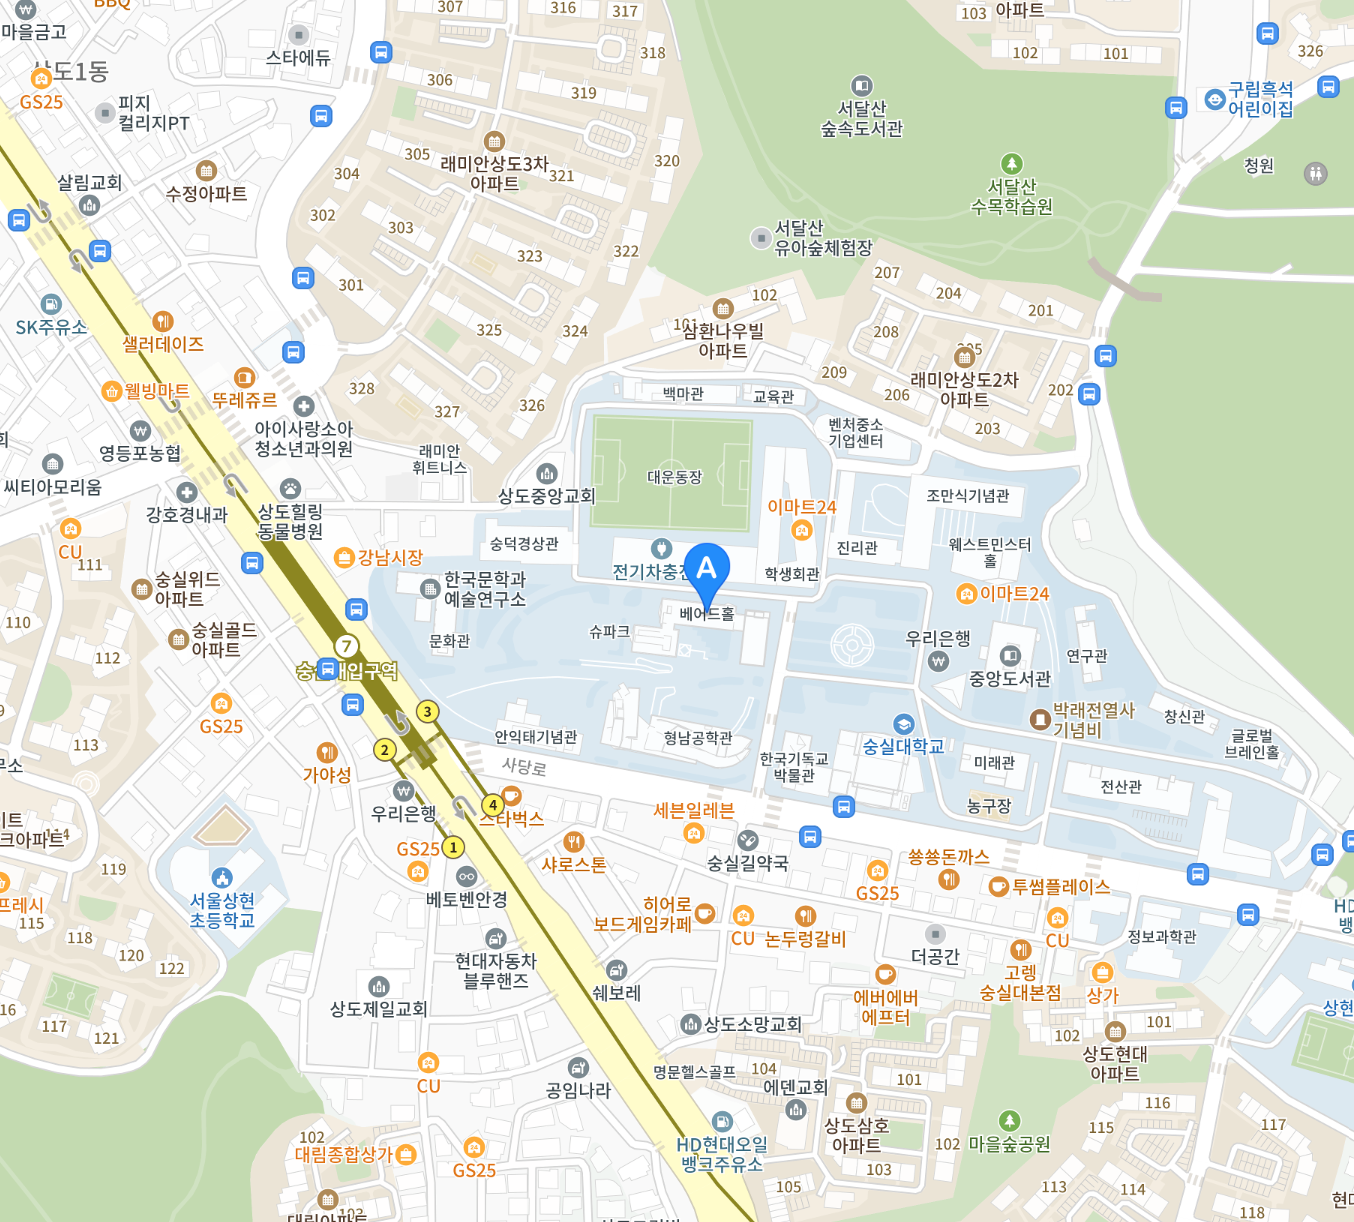
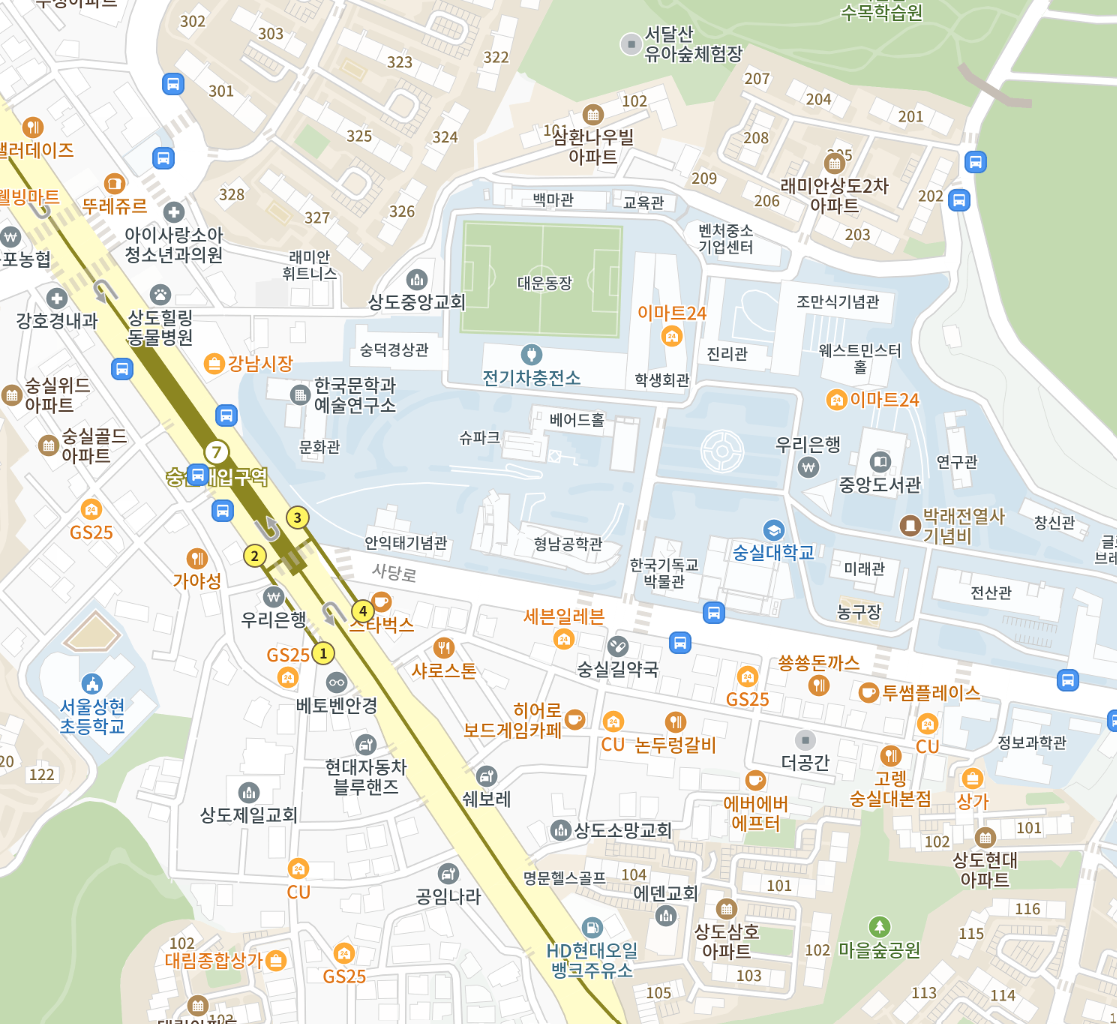
fix: map

diff --git a/src/pages/Onboarding/AddressMap.jsx b/src/pages/Onboarding/AddressMap.jsx
@@ -16,7 +16,8 @@ export default function AddressMap() {
                     aria-label="뒤로가기"
                 >
                     <svg width="30" height="30" viewBox="0 0 24 24" fill="none">
-                        <path d="M15 6L9 12l6 6" stroke="white" strokeWidth="2" strokeLinecap="round" strokeLinejoin="round"/>
+                        <path d="M15 6L9 12l6 6" stroke="white" strokeWidth="2" strokeLinecap="round"
+                              strokeLinejoin="round"/>
                     </svg>
                 </button>
 
@@ -27,18 +28,22 @@ export default function AddressMap() {
 
             {/* 지도 영역 (플레이스홀더) */}
             <img
-                className="absolute left-0 top-[122px] w-[402px] h-[752px] object-cover"
-                src="https://placehold.co/402x752?text=Map"
+                className="absolute left-0 top-[120px] w-[402px] h-[752px] object-cover"
+                src="/images/signup/map.png"
                 alt=""
             />
 
             {/* 말풍선 */}
-            <div className="absolute left-[88px] top-[360px] bg-black text-white text-[12px] px-3 py-2 rounded">
+            <div className="absolute left-[88px] top-[350px] bg-black text-white text-[12px] px-3 py-2 rounded">
                 바꾼 위치가 주소와 같은지 확인해주세요
             </div>
 
             {/* 위치 핀 모양 대충 */}
-            <div className="absolute left-[190px] top-[410px] w-7 h-9 bg-black rounded-b-full" />
+            <img
+                className="absolute left-45 top-96 w-[40px] h-[40px] object-cover"
+                src="/images/signup/MapPin.png"
+                alt=""
+            />
 
             {/* 바텀 시트 */}
             <div className="absolute left-0 bottom-0 w-full py-6 bg-gradient-to-bl from-gray-900 via-black to-neutral-900
@@ -49,7 +54,7 @@ export default function AddressMap() {
                 </div>
 
                 <div className="mx-4 h-10 px-4 bg-red-200/70 rounded-lg grid place-items-center">
-                    <div className="text-red-700 text-[12px] font-light">
+                    <div className="text-black text-[12px] font-light">
                         지도의 표시와 실제 주소가 맞는지 확인해주세요
                     </div>
                 </div>

diff --git a/src/pages/Onboarding/AddressSearch.jsx b/src/pages/Onboarding/AddressSearch.jsx
@@ -49,8 +49,9 @@ export default function AddressSearch() {
             </div>
 
             {/* 검색 입력 */}
-            <div className="absolute left-[21px] top-[245px] w-[360px] h-12 bg-white/20 rounded-lg px-4 flex items-center gap-2">
-                <span className="w-4 h-4 rounded bg-zinc-500/70" />
+            <div
+                className="absolute left-[21px] top-[245px] w-[360px] h-12 bg-white/20 rounded-lg px-4 flex items-center gap-2">
+                <img className="ml-[3px] w-[16px] h-[16px]" src="/images/signup/search.svg" alt=""/>
                 <input
                     className="flex-1 bg-transparent outline-none placeholder:text-zinc-400 text-[15px]"
                     placeholder="지번,도로명,건물명으로 검색"
@@ -60,11 +61,19 @@ export default function AddressSearch() {
             {/* 현재 위치 찾기(비활성 스타일) */}
             <button
                 type="button"
-                className="absolute left-[21px] top-[307px] w-[360px] h-10 bg-white/30 rounded-lg grid place-items-center
-                   text-zinc-500 text-[14px]"
+                className="absolute left-[21px] top-[307px] w-[360px] h-10 rounded-lg
+             flex items-center justify-center gap-2 text-[#999] font-medium text-[14px]
+             bg-[#3f4344] hover:bg-[#bbb] hover:text-[#999]
+             transition-colors duration-200"
             >
+                <img
+                    className="w-[17px] h-[17px]"
+                    src="/images/signup/location.svg"
+                    alt="위치 아이콘"
+                />
                 현재 위치로 찾기
             </button>
+
 
             {/* 결과 리스트 (스크롤) */}
             <div
